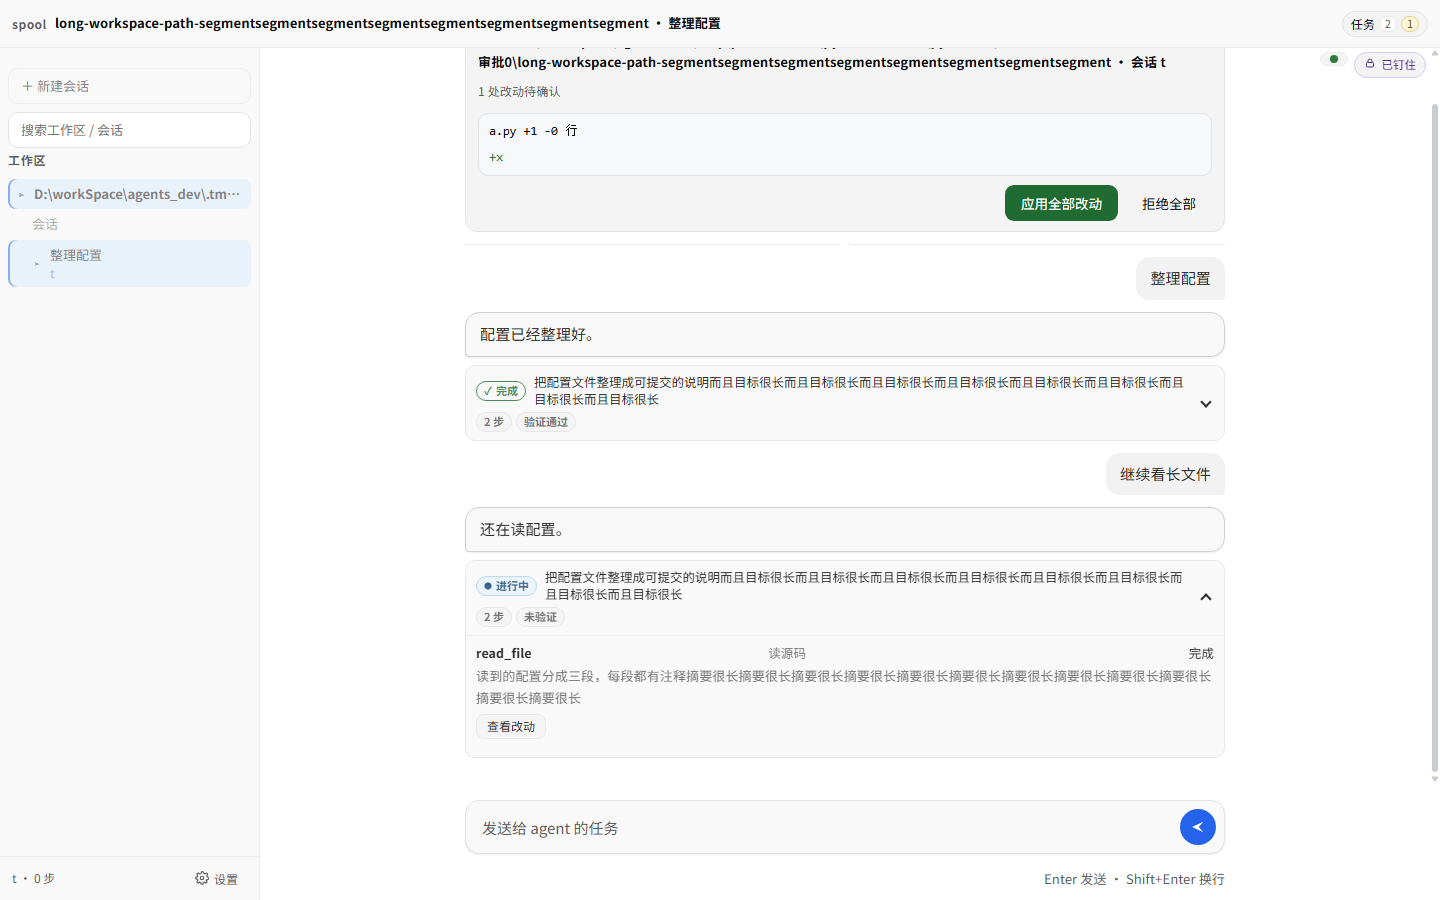
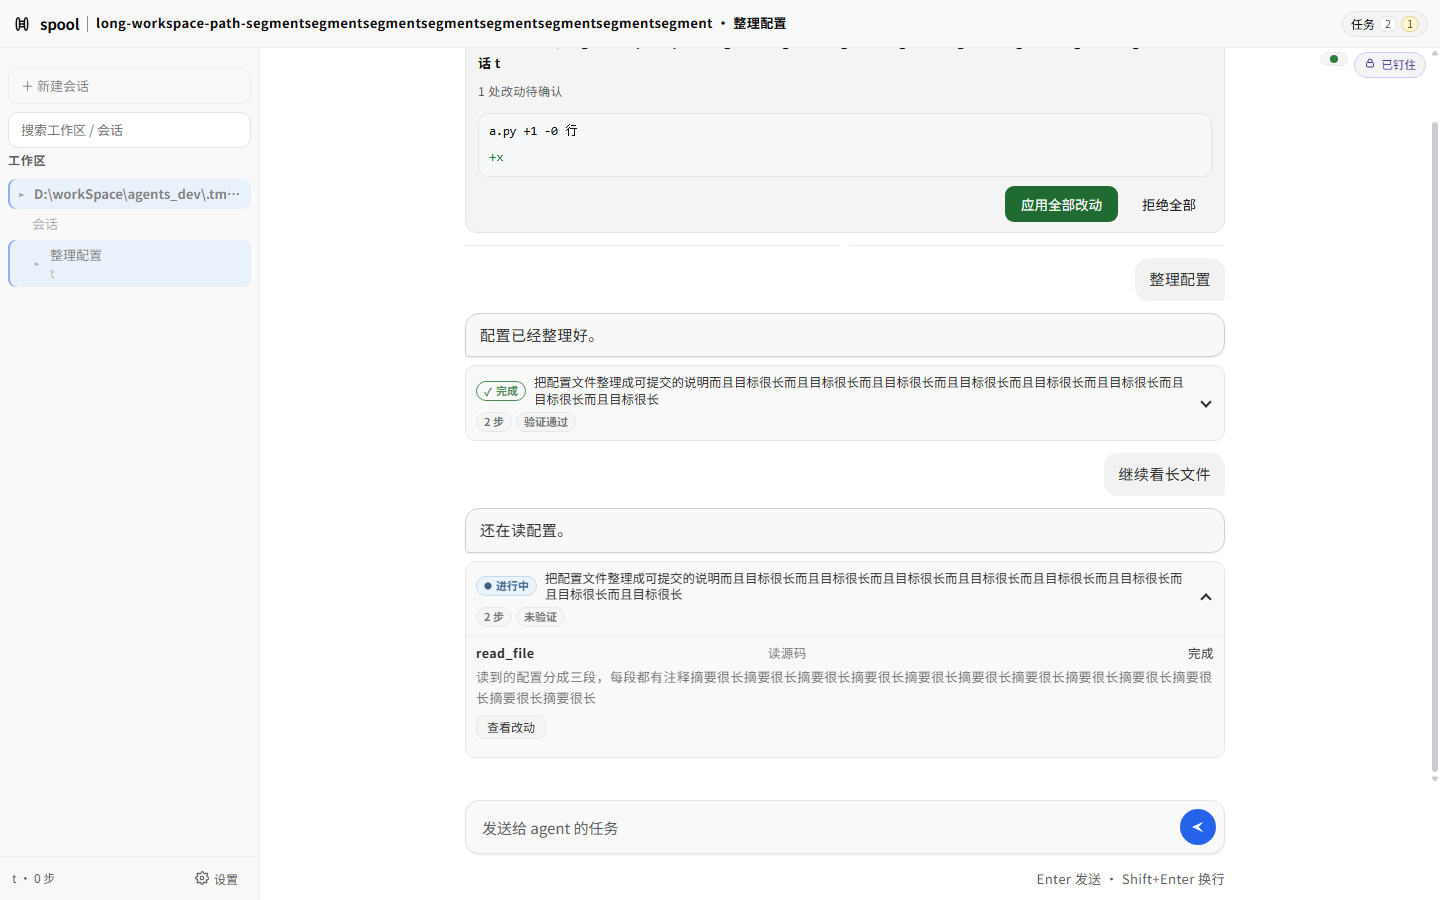
style(web): add brand mark and refine topbar hierarchy

diff --git a/src/spoolkit/web/assets/dist/app.4ebb16ec4f8d.css b/src/spoolkit/web/assets/dist/app.4ebb16ec4f8d.css
@@ -121,7 +121,7 @@
   body {
     margin:0; background:var(--bg); color:var(--text);
     font:var(--font-md)/var(--leading-body) var(--sans);
-    letter-spacing:0.01em;
+    letter-spacing:0.03em;
     display:flex; flex-direction:column; overflow:hidden;
     -webkit-text-size-adjust:100%;
   }
@@ -288,7 +288,7 @@
 
   /* ── 顶条：抽屉开关 + 当前目标（"我在哪儿"必须直接可读） ── */
   #top {
-    display:flex; align-items:center; gap:var(--space-2);
+    display:flex; align-items:center; flex-wrap:nowrap; gap:var(--space-2);
     min-height:48px; padding:var(--space-2) var(--space-3);
     border-bottom:1px solid var(--line-soft); background:var(--panel);
     min-width:0;
@@ -298,8 +298,13 @@
           align-items:center; justify-content:center; }
   #menu:hover { background:var(--bubble-user); }
   #menu svg { width:18px; height:18px; }
-  .brand { flex:0 0 auto; color:var(--text-dim); font-size:var(--font-xs);
-           font-weight:650; letter-spacing:.04em; line-height:1; white-space:nowrap; }
+  .brand { flex:0 0 auto; display:inline-flex; align-items:center; gap:var(--space-2);
+           min-width:0; color:var(--text); white-space:nowrap; letter-spacing:0; }
+  .brand-mark { width:20px; height:20px; flex:0 0 auto; display:block; }
+  .brand-name { flex:0 0 auto; font-size:var(--font-md); font-weight:650;
+                letter-spacing:-0.02em; line-height:1; }
+  .top-rule { flex:0 0 auto; width:1px; height:16px; display:block;
+              background:var(--text-faint); }
   #where { color:var(--text); font-weight:600; font-size:var(--font-sm);
            line-height:var(--leading-tight);
            flex:1; min-width:0; overflow:hidden; text-overflow:ellipsis;
@@ -483,7 +488,7 @@
   .msg.assistant .bubble { background:var(--bubble-assistant);
                            border:1px solid var(--line-soft);
                            border-bottom-left-radius:4px;
-                           line-height:var(--leading-body); letter-spacing:0.01em; }
+                           line-height:var(--leading-body); letter-spacing:0.03em; }
   .msg.assistant .bubble :is(pre, code, .inline-code, .code) { letter-spacing:0; }
   @media (prefers-color-scheme: light) {
     .msg.assistant .bubble { border-color:#c8c8ce;
@@ -499,7 +504,7 @@
                       background:var(--danger-bg); color:var(--danger-text);
                       border-radius:0 8px 8px 0;
                       font-size:var(--font-sm); line-height:var(--leading-body);
-                      letter-spacing:0.01em; }
+                      letter-spacing:0.03em; }
   .sys-line.failure .fail-head { font-weight:600; }
   .sys-line.failure .fail-line { margin-top:2px; }
   .sys-line.failure .fail-raw { margin-top:6px; color:var(--text-dim);
@@ -693,7 +698,7 @@
   .task-summary { display:-webkit-box; -webkit-box-orient:vertical; -webkit-line-clamp:2;
                   line-clamp:2; overflow:hidden; width:100%; min-width:0; max-width:100%;
                   overflow-wrap:anywhere; font-size:var(--font-sm);
-                  line-height:var(--leading-body); letter-spacing:0.01em;
+                  line-height:var(--leading-body); letter-spacing:0.03em;
                   max-height:3.4em; }
   .task-jump { margin:2px 0 0; padding:3px 10px; border-radius:8px;
                border:1px solid var(--line); background:var(--panel-2); color:var(--text);
@@ -818,6 +823,7 @@
   /* ── 手机：左栏收成抽屉、气泡占满、输入条不被键盘顶掉 ── */
   @media (max-width:860px) {
     #menu { display:flex; }
+    .top-rule { display:none; }
     #sidebar { position:fixed; top:0; bottom:0; left:0; width:282px;
                transform:translateX(-100%); transition:transform .18s ease;
                pointer-events:none;

diff --git a/src/spoolkit/web/assets/dist/app.css b/src/spoolkit/web/assets/dist/app.css
@@ -121,7 +121,7 @@
   body {
     margin:0; background:var(--bg); color:var(--text);
     font:var(--font-md)/var(--leading-body) var(--sans);
-    letter-spacing:0.01em;
+    letter-spacing:0.03em;
     display:flex; flex-direction:column; overflow:hidden;
     -webkit-text-size-adjust:100%;
   }
@@ -288,7 +288,7 @@
 
   /* ── 顶条：抽屉开关 + 当前目标（"我在哪儿"必须直接可读） ── */
   #top {
-    display:flex; align-items:center; gap:var(--space-2);
+    display:flex; align-items:center; flex-wrap:nowrap; gap:var(--space-2);
     min-height:48px; padding:var(--space-2) var(--space-3);
     border-bottom:1px solid var(--line-soft); background:var(--panel);
     min-width:0;
@@ -298,8 +298,13 @@
           align-items:center; justify-content:center; }
   #menu:hover { background:var(--bubble-user); }
   #menu svg { width:18px; height:18px; }
-  .brand { flex:0 0 auto; color:var(--text-dim); font-size:var(--font-xs);
-           font-weight:650; letter-spacing:.04em; line-height:1; white-space:nowrap; }
+  .brand { flex:0 0 auto; display:inline-flex; align-items:center; gap:var(--space-2);
+           min-width:0; color:var(--text); white-space:nowrap; letter-spacing:0; }
+  .brand-mark { width:20px; height:20px; flex:0 0 auto; display:block; }
+  .brand-name { flex:0 0 auto; font-size:var(--font-md); font-weight:650;
+                letter-spacing:-0.02em; line-height:1; }
+  .top-rule { flex:0 0 auto; width:1px; height:16px; display:block;
+              background:var(--text-faint); }
   #where { color:var(--text); font-weight:600; font-size:var(--font-sm);
            line-height:var(--leading-tight);
            flex:1; min-width:0; overflow:hidden; text-overflow:ellipsis;
@@ -483,7 +488,7 @@
   .msg.assistant .bubble { background:var(--bubble-assistant);
                            border:1px solid var(--line-soft);
                            border-bottom-left-radius:4px;
-                           line-height:var(--leading-body); letter-spacing:0.01em; }
+                           line-height:var(--leading-body); letter-spacing:0.03em; }
   .msg.assistant .bubble :is(pre, code, .inline-code, .code) { letter-spacing:0; }
   @media (prefers-color-scheme: light) {
     .msg.assistant .bubble { border-color:#c8c8ce;
@@ -499,7 +504,7 @@
                       background:var(--danger-bg); color:var(--danger-text);
                       border-radius:0 8px 8px 0;
                       font-size:var(--font-sm); line-height:var(--leading-body);
-                      letter-spacing:0.01em; }
+                      letter-spacing:0.03em; }
   .sys-line.failure .fail-head { font-weight:600; }
   .sys-line.failure .fail-line { margin-top:2px; }
   .sys-line.failure .fail-raw { margin-top:6px; color:var(--text-dim);
@@ -693,7 +698,7 @@
   .task-summary { display:-webkit-box; -webkit-box-orient:vertical; -webkit-line-clamp:2;
                   line-clamp:2; overflow:hidden; width:100%; min-width:0; max-width:100%;
                   overflow-wrap:anywhere; font-size:var(--font-sm);
-                  line-height:var(--leading-body); letter-spacing:0.01em;
+                  line-height:var(--leading-body); letter-spacing:0.03em;
                   max-height:3.4em; }
   .task-jump { margin:2px 0 0; padding:3px 10px; border-radius:8px;
                border:1px solid var(--line); background:var(--panel-2); color:var(--text);
@@ -818,6 +823,7 @@
   /* ── 手机：左栏收成抽屉、气泡占满、输入条不被键盘顶掉 ── */
   @media (max-width:860px) {
     #menu { display:flex; }
+    .top-rule { display:none; }
     #sidebar { position:fixed; top:0; bottom:0; left:0; width:282px;
                transform:translateX(-100%); transition:transform .18s ease;
                pointer-events:none;

diff --git a/src/spoolkit/web/assets/css/thread.css b/src/spoolkit/web/assets/css/thread.css
@@ -41,7 +41,7 @@
   .msg.assistant .bubble { background:var(--bubble-assistant);
                            border:1px solid var(--line-soft);
                            border-bottom-left-radius:4px;
-                           line-height:var(--leading-body); letter-spacing:0.01em; }
+                           line-height:var(--leading-body); letter-spacing:0.03em; }
   .msg.assistant .bubble :is(pre, code, .inline-code, .code) { letter-spacing:0; }
   @media (prefers-color-scheme: light) {
     .msg.assistant .bubble { border-color:#c8c8ce;
@@ -57,7 +57,7 @@
                       background:var(--danger-bg); color:var(--danger-text);
                       border-radius:0 8px 8px 0;
                       font-size:var(--font-sm); line-height:var(--leading-body);
-                      letter-spacing:0.01em; }
+                      letter-spacing:0.03em; }
   .sys-line.failure .fail-head { font-weight:600; }
   .sys-line.failure .fail-line { margin-top:2px; }
   .sys-line.failure .fail-raw { margin-top:6px; color:var(--text-dim);
@@ -251,7 +251,7 @@
   .task-summary { display:-webkit-box; -webkit-box-orient:vertical; -webkit-line-clamp:2;
                   line-clamp:2; overflow:hidden; width:100%; min-width:0; max-width:100%;
                   overflow-wrap:anywhere; font-size:var(--font-sm);
-                  line-height:var(--leading-body); letter-spacing:0.01em;
+                  line-height:var(--leading-body); letter-spacing:0.03em;
                   max-height:3.4em; }
   .task-jump { margin:2px 0 0; padding:3px 10px; border-radius:8px;
                border:1px solid var(--line); background:var(--panel-2); color:var(--text);

diff --git a/src/spoolkit/web/assets/css/layout.css b/src/spoolkit/web/assets/css/layout.css
@@ -1,7 +1,7 @@
 
   /* ── 顶条：抽屉开关 + 当前目标（"我在哪儿"必须直接可读） ── */
   #top {
-    display:flex; align-items:center; gap:var(--space-2);
+    display:flex; align-items:center; flex-wrap:nowrap; gap:var(--space-2);
     min-height:48px; padding:var(--space-2) var(--space-3);
     border-bottom:1px solid var(--line-soft); background:var(--panel);
     min-width:0;
@@ -11,8 +11,13 @@
           align-items:center; justify-content:center; }
   #menu:hover { background:var(--bubble-user); }
   #menu svg { width:18px; height:18px; }
-  .brand { flex:0 0 auto; color:var(--text-dim); font-size:var(--font-xs);
-           font-weight:650; letter-spacing:.04em; line-height:1; white-space:nowrap; }
+  .brand { flex:0 0 auto; display:inline-flex; align-items:center; gap:var(--space-2);
+           min-width:0; color:var(--text); white-space:nowrap; letter-spacing:0; }
+  .brand-mark { width:20px; height:20px; flex:0 0 auto; display:block; }
+  .brand-name { flex:0 0 auto; font-size:var(--font-md); font-weight:650;
+                letter-spacing:-0.02em; line-height:1; }
+  .top-rule { flex:0 0 auto; width:1px; height:16px; display:block;
+              background:var(--text-faint); }
   #where { color:var(--text); font-weight:600; font-size:var(--font-sm);
            line-height:var(--leading-tight);
            flex:1; min-width:0; overflow:hidden; text-overflow:ellipsis;

diff --git a/src/spoolkit/web/assets/index.html b/src/spoolkit/web/assets/index.html
@@ -6,7 +6,7 @@
 <meta name="color-scheme" content="dark light">
 <title>spool</title>
 
-<link rel="stylesheet" href="/assets/dist/app.adaf5d2d1aa4.css">
+<link rel="stylesheet" href="/assets/dist/app.4ebb16ec4f8d.css">
 </head>
 <body>
 <!-- 右上角那一列：常驻提示（徽标 + 详情浮层）与通知。两者都在**文档流之外**
@@ -28,7 +28,19 @@
 </div>
 <div id="top">
   <button id="menu" title="会话列表" aria-label="会话列表" aria-expanded="false" aria-controls="sidebar"></button>
-  <span class="brand">spool</span>
+  <span class="brand" role="img" aria-label="spool" title="spool">
+    <svg class="brand-mark" viewBox="0 0 20 20" width="20" height="20" aria-hidden="true" focusable="false">
+      <g fill="none" stroke="currentColor" stroke-width="1.5" stroke-linecap="round">
+        <ellipse cx="6" cy="10" rx="1.7" ry="6.2"></ellipse>
+        <ellipse cx="14" cy="10" rx="1.7" ry="6.2"></ellipse>
+        <path d="M7.5 7.2h5"></path>
+        <path d="M7.5 10h5"></path>
+        <path d="M7.5 12.8h5"></path>
+      </g>
+    </svg>
+    <span class="brand-name">spool</span>
+  </span>
+  <span class="top-rule" aria-hidden="true"></span>
   <span id="where" class="empty">连接中</span>
   <button id="tasks-btn" type="button" title="任务" aria-label="任务"
           aria-expanded="false" aria-controls="tasks-panel">

diff --git a/src/spoolkit/web/assets/css/responsive.css b/src/spoolkit/web/assets/css/responsive.css
@@ -2,6 +2,7 @@
   /* ── 手机：左栏收成抽屉、气泡占满、输入条不被键盘顶掉 ── */
   @media (max-width:860px) {
     #menu { display:flex; }
+    .top-rule { display:none; }
     #sidebar { position:fixed; top:0; bottom:0; left:0; width:282px;
                transform:translateX(-100%); transition:transform .18s ease;
                pointer-events:none;

diff --git a/src/spoolkit/web/assets/css/base.css b/src/spoolkit/web/assets/css/base.css
@@ -18,7 +18,7 @@
   body {
     margin:0; background:var(--bg); color:var(--text);
     font:var(--font-md)/var(--leading-body) var(--sans);
-    letter-spacing:0.01em;
+    letter-spacing:0.03em;
     display:flex; flex-direction:column; overflow:hidden;
     -webkit-text-size-adjust:100%;
   }

diff --git a/tests/web/test_task_card_browser.py b/tests/web/test_task_card_browser.py
@@ -70,7 +70,64 @@ def _assert_columns(edges: dict) -> None:
     assert abs(_px(edges["bubble_lh"]) - 24.75) <= 0.6, edges
     assert _px(edges["side_lh"]) <= 20, edges
     assert "MiSans" in edges["font"], edges
-    assert abs(_px(edges["tracking"]) - 0.15) <= 0.05, edges
+    assert abs(_px(edges["tracking"]) - 0.45) <= 0.05, edges
+
+
+def _topbar(page) -> dict:
+    return page.eval(
+        r"""
+        (() => {
+          const top = document.getElementById('top');
+          const brand = document.querySelector('.brand');
+          const name = document.querySelector('.brand-name');
+          const mark = document.querySelector('.brand-mark');
+          const rule = document.querySelector('.top-rule');
+          const tasks = document.getElementById('tasks-btn');
+          const where = document.getElementById('where');
+          const nameStyle = getComputedStyle(name);
+          const markBox = mark.getBoundingClientRect();
+          const tasksBox = tasks.getBoundingClientRect();
+          return {
+            label: brand.getAttribute('aria-label'),
+            title: brand.getAttribute('title'),
+            name: name.textContent,
+            name_size: nameStyle.fontSize,
+            name_weight: String(nameStyle.fontWeight),
+            name_track: parseFloat(nameStyle.letterSpacing),
+            name_display: nameStyle.display,
+            mark_w: Math.round(markBox.width),
+            mark_h: Math.round(markBox.height),
+            rule: getComputedStyle(rule).display,
+            wrap: getComputedStyle(top).flexWrap,
+            where_ws: getComputedStyle(where).whiteSpace,
+            top_h: Math.round(top.getBoundingClientRect().height),
+            tasks_l: Math.round(tasksBox.left),
+            tasks_r: Math.round(tasksBox.right),
+            view_w: window.innerWidth,
+            overflow: document.documentElement.scrollWidth - document.documentElement.clientWidth,
+          };
+        })()
+        """
+    )
+
+
+def _assert_topbar(bar: dict, *, narrow: bool) -> None:
+    assert bar["label"] == "spool", bar
+    assert bar["title"] == "spool", bar
+    assert bar["name"] == "spool", bar
+    assert bar["name_display"] != "none", bar
+    assert bar["name_size"] == "15px", bar
+    assert bar["name_weight"] in ("650", "700"), bar
+    assert bar["name_track"] < 0, bar
+    assert 18 <= bar["mark_w"] <= 20, bar
+    assert 18 <= bar["mark_h"] <= 20, bar
+    assert bar["wrap"] == "nowrap", bar
+    assert bar["where_ws"] == "nowrap", bar
+    assert bar["top_h"] <= 68, bar
+    assert bar["rule"] == ("none" if narrow else "block"), bar
+    assert bar["tasks_l"] >= 0, bar
+    assert bar["tasks_r"] <= bar["view_w"] + 1, bar
+    assert bar["overflow"] <= 1, bar
 
 
 def _browser() -> str | None:
@@ -342,11 +399,13 @@ def test_真实Chrome渲染任务卡并定位审批(tmp_path: Path) -> None:
         )
         wide_cols = _columns(page)
         _assert_columns(wide_cols)
+        _assert_topbar(_topbar(page), narrow=False)
         SHOTS.mkdir(parents=True, exist_ok=True)
         page.shot(str(SHOTS / "task-card-1440.png"))
         shutil.copyfile(SHOTS / "task-card-1440.png", SHOTS / "task-card-visual-1440.png")
         shutil.copyfile(SHOTS / "task-card-1440.png", SHOTS / "shell-visual-1440.png")
         shutil.copyfile(SHOTS / "task-card-1440.png", SHOTS / "type-composer-1440.png")
+        shutil.copyfile(SHOTS / "task-card-1440.png", SHOTS / "brand-topbar-1440.png")
 
         page.eval("document.querySelector('.task-card-running .task-head').click()")
         _patch_summary(runner, live_id, "understand", LONG_GOAL + "重绑甲")
@@ -449,10 +508,12 @@ def test_真实Chrome渲染任务卡并定位审批(tmp_path: Path) -> None:
         )
         narrow_cols = _columns(page)
         _assert_columns(narrow_cols)
+        _assert_topbar(_topbar(page), narrow=True)
         page.shot(str(SHOTS / "task-card-390.png"))
         shutil.copyfile(SHOTS / "task-card-390.png", SHOTS / "task-card-visual-390.png")
         shutil.copyfile(SHOTS / "task-card-390.png", SHOTS / "shell-visual-390.png")
         shutil.copyfile(SHOTS / "task-card-390.png", SHOTS / "type-composer-390.png")
+        shutil.copyfile(SHOTS / "task-card-390.png", SHOTS / "brand-topbar-390.png")
         assert narrow["page_overflow"] <= 1, narrow
         assert narrow["card_overflow"] <= 1, narrow
         assert narrow["card_right"] <= narrow["stream_right"] + 1, narrow
